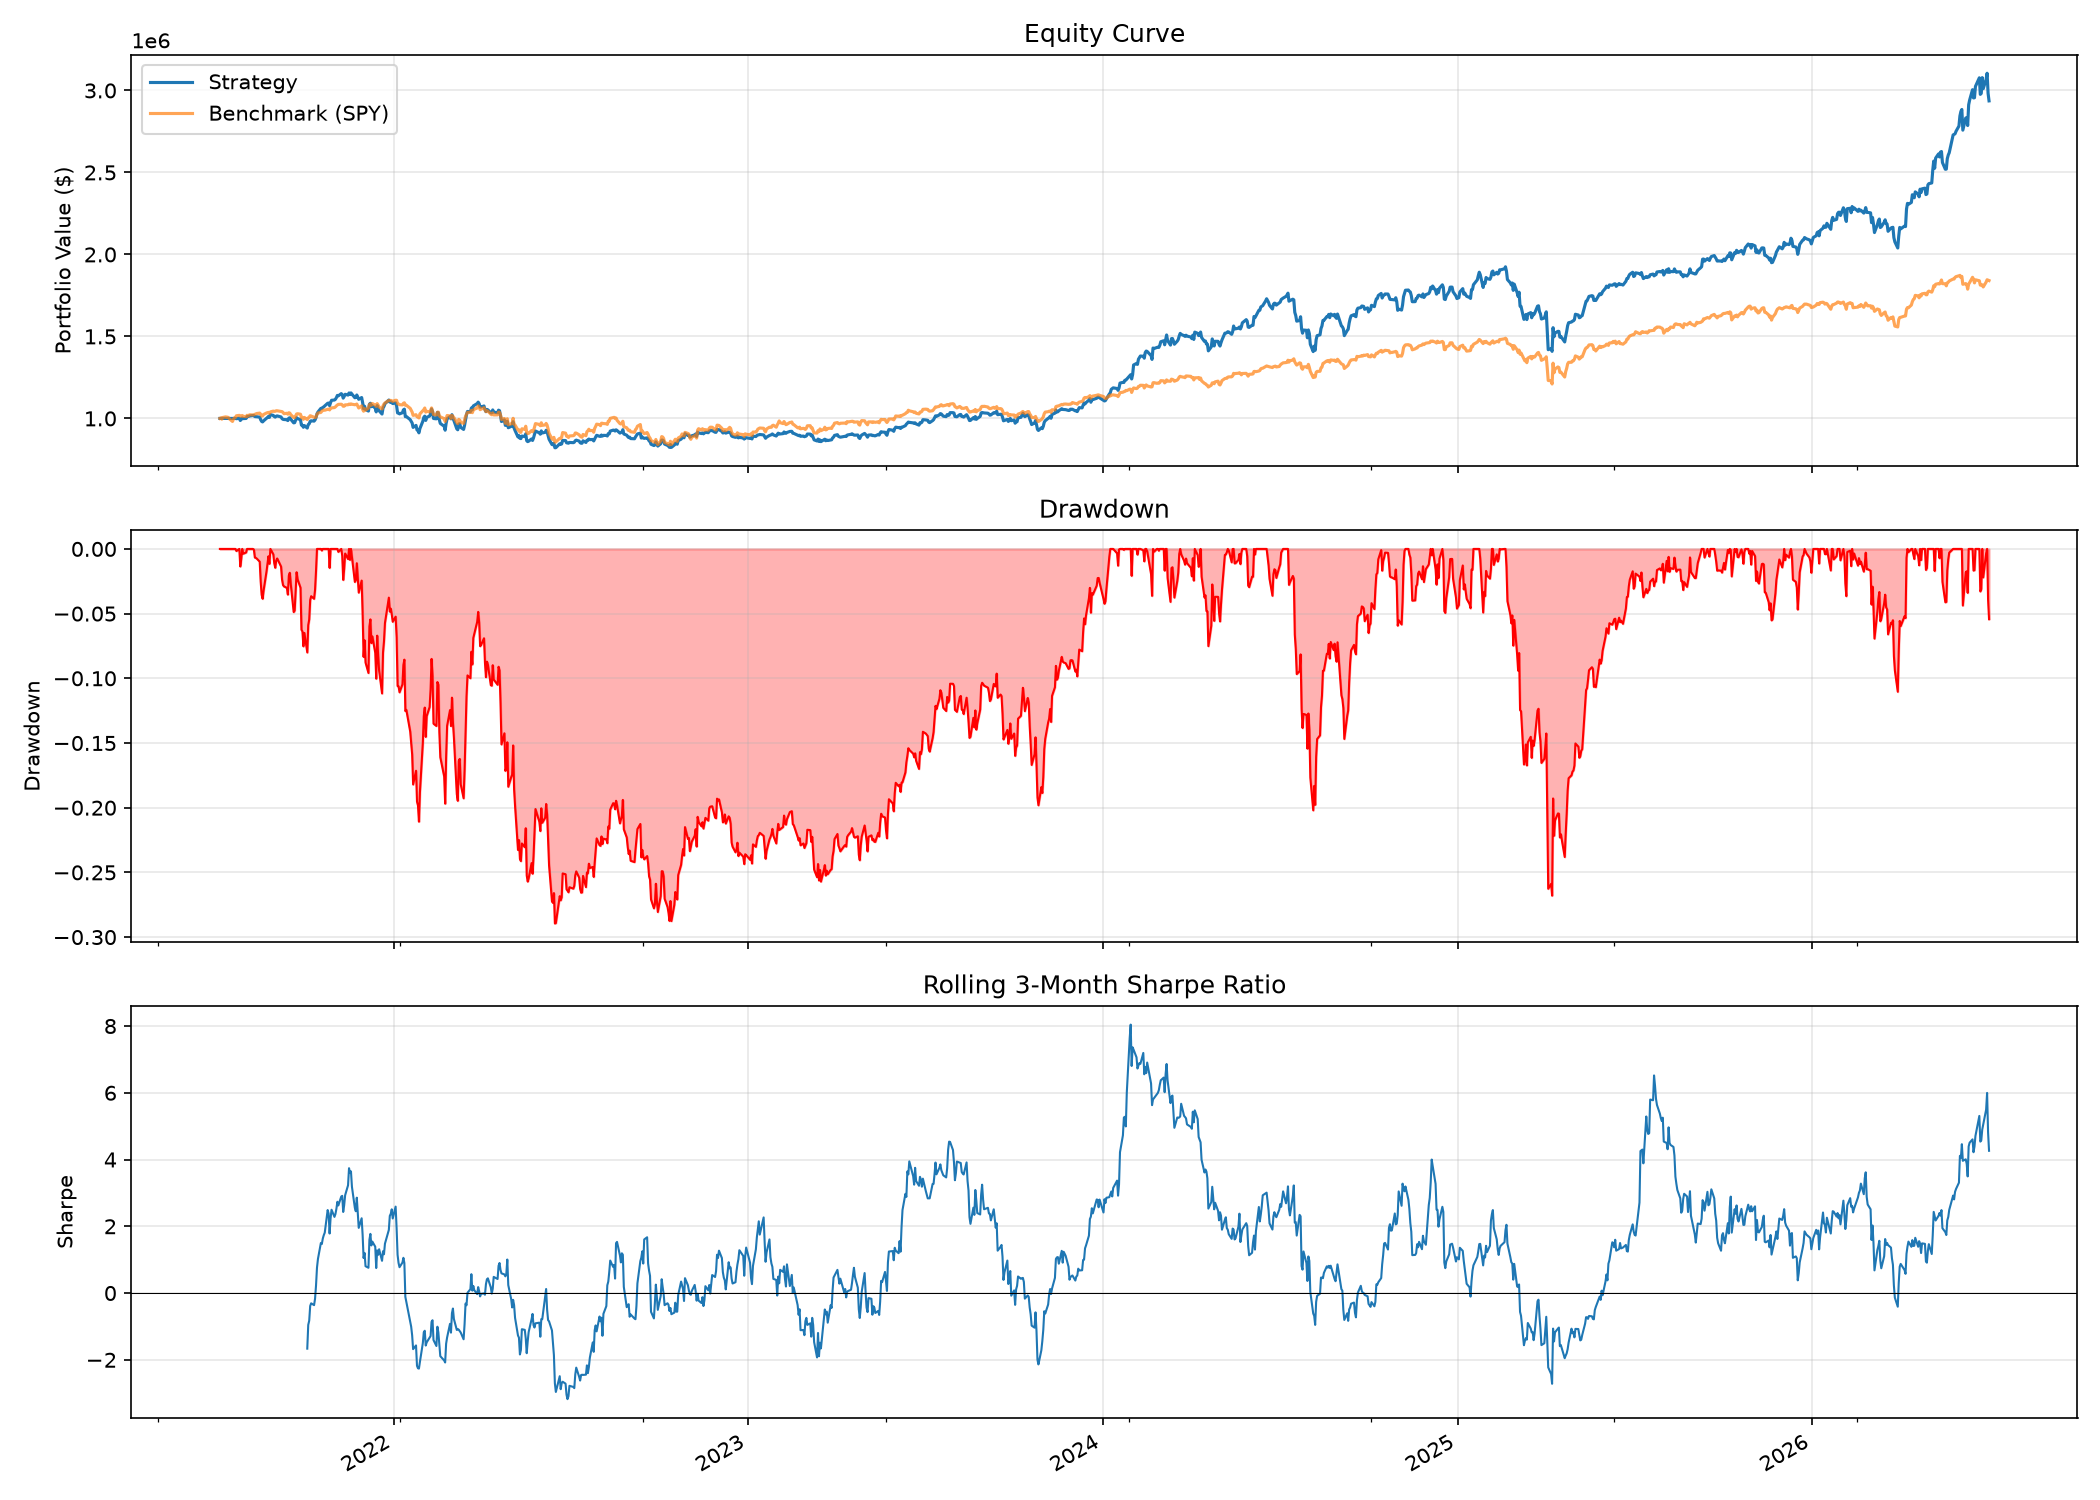
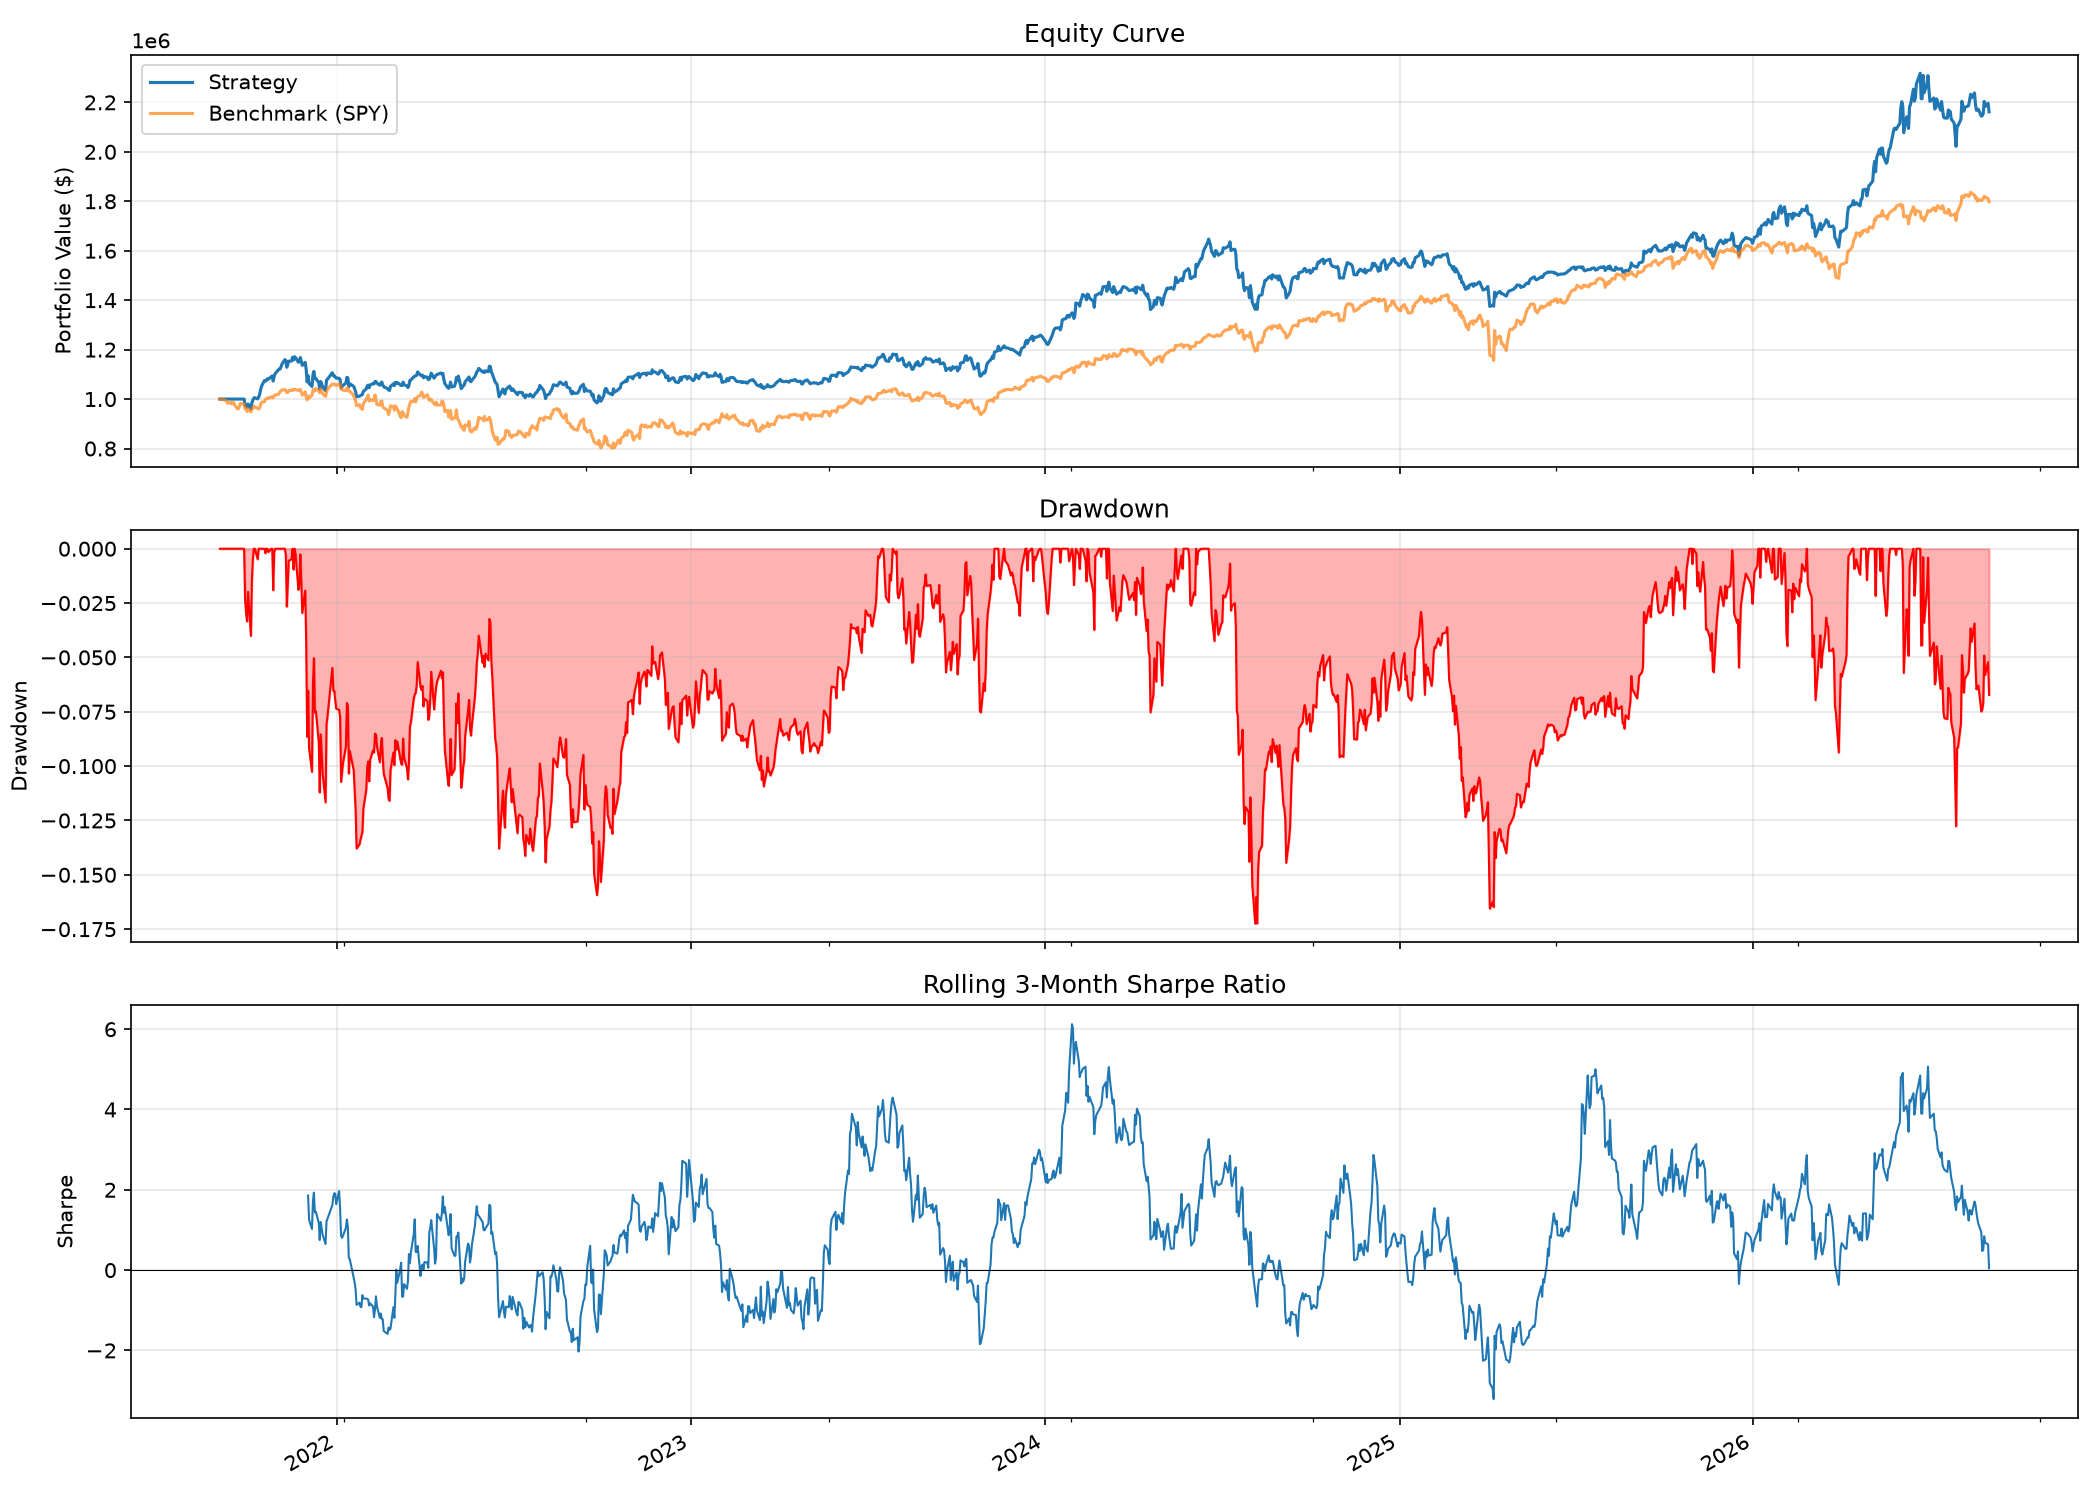
docs(readme): backtest tables and chart from the 2026-09-02 refresh run
Tables and the 5-year chart come from README Backtest Refresh run
33640431917 on commit 4274423, the first run with the sector table on the
backtest path, targets from the traded book and the volatility-scaled impact
model. The LightGBM tables are published alongside, with the plain reading:
it does not beat SPY in any window.

Claude-Session: https://claude.ai/code/session_01Q1RLruG5yjBkp6saSZZABh

diff --git a/README.md b/README.md
@@ -24,15 +24,64 @@ contributions add exactly to geometric active return.
 >
 > **配置**: 5个价格因子（动量50% + 52周新高20% + 短期反转10% + 波动率收缩10% + 趋势持续10%），12只集中持仓，22%目标波动率，3周再平衡+40%总换手上限（含退出腿与杠杆变化），快速regime检测动态杠杆，Almgren-Chriss市场冲击成本模型。Sharpe/Sortino 按 4% 无风险利率计算。基本面因子因yfinance前视偏差已禁用。
 
-### Results pending rerun / 结果待重跑
+### Multi-Factor Strategy / 多因子策略
 
-The previous tables and chart were generated before the next-session-open
-execution model, corrected Sortino definition, fixed rebalance calendar,
-continuous-window reporting, and final exposure limits were introduced. They
-have been removed rather than presented as current evidence. Run the manual
-`README Backtest Refresh` workflow to publish a new traceable set of results.
+Recomputed 2026-09-02 by the `README Backtest Refresh` workflow (Actions run [33640431917](https://github.com/yingwang/trade/actions/runs/33640431917)) on commit `4274423`: one continuous simulation sliced into windows, next-session-open execution, the anchored rebalance calendar, the static sector table on both paths, targets computed from the actual drifted book, the volatility-scaled impact model, and Sharpe/Sortino against a 4% risk-free rate.
 
-旧表格和净值图生成于本轮回测时序、Sortino、固定再平衡日历、连续窗口及最终风险上限修复之前，因此不再作为当前结果展示。请运行手动 `README Backtest Refresh` workflow 后再发布可追溯的新结果。
+由 `README Backtest Refresh` workflow 于 2026-09-02 重算（Actions run 33640431917，commit `4274423`）：一次连续模拟切成三个窗口，次日开盘成交，锚定的再平衡日历，回测与实盘共用的静态行业表，目标组合按真实漂移持仓计算，波动率尺度的冲击成本，Sharpe/Sortino 按 4% 无风险利率计算。
+
+#### 5-Year Backtest (2021-09-02 → 2026-09-02)
+
+| Metric / 指标 | Strategy / 策略 | SPY | Difference / 差异 |
+|---------------|:-----------:|:---:|:---------:|
+| **Total Return / 总收益** | **+110.5%** | +80.3% | **+30.1pp** |
+| **CAGR / 年化收益** | **+16.1%** | — | — |
+| **Sharpe Ratio** | **0.71** | — | — |
+| **Sortino Ratio** | **1.02** | — | — |
+| **Max Drawdown / 最大回撤** | -16.7% | — | — |
+| **Information Ratio** | **0.22** | — | — |
+
+#### 3-Year Backtest (2023-09-02 → 2026-09-02)
+
+| Metric / 指标 | Strategy / 策略 | SPY | Difference / 差异 |
+|---------------|:-----------:|:---:|:---------:|
+| **Total Return / 总收益** | **+84.7%** | +76.5% | **+8.3pp** |
+| **CAGR / 年化收益** | **+22.9%** | — | — |
+| **Sharpe Ratio** | **1.00** | — | — |
+| **Sortino Ratio** | **1.47** | — | — |
+| **Max Drawdown / 最大回撤** | -16.7% | — | — |
+| **Information Ratio** | **0.15** | — | — |
+
+#### 1-Year Backtest (2025-09-02 → 2026-09-02)
+
+| Metric / 指标 | Strategy / 策略 | SPY | Difference / 差异 |
+|---------------|:-----------:|:---:|:---------:|
+| **Total Return / 总收益** | **+39.5%** | +20.6% | **+18.9pp** |
+| **CAGR / 年化收益** | **+39.5%** | — | — |
+| **Sharpe Ratio** | **1.45** | — | — |
+| **Sortino Ratio** | **2.21** | — | — |
+| **Max Drawdown / 最大回撤** | -12.8% | — | — |
+| **Information Ratio** | **1.01** | — | — |
+
+#### Performance Chart / 净值曲线 (5-Year)
+
+![5-Year Backtest](backtest_5yr.png)
+
+The July 2026 tables (5-year +193.6%, Sharpe 0.87, max drawdown -28.9%) were produced before the sector table existed on the backtest path, with targets chained from the previous target rather than the traded book, and with an impact model that charged almost nothing; about half of that excess return does not survive those corrections. The drawdown falls because the 50% sector cap and industry neutralization now actually apply.
+
+2026 年 7 月的表格（五年 +193.6%，Sharpe 0.87，最大回撤 -28.9%）产生于回测路径尚无行业表、目标组合从上期目标而非实际持仓链式推导、冲击成本几乎为零的版本；上述修正之后，其中约一半的超额收益不复存在。最大回撤下降，是因为 50% 行业上限和行业中性化此时才真正起作用。
+
+### LightGBM Strategy / LightGBM 策略
+
+Same run, same windows. The ranking model does not beat the benchmark in any window of the honest backtest; the paper account's excess return since April 2026 is, by the dashboard's attribution, sector exposure rather than selection. Treat this strategy as research until that changes.
+
+同一次运行、同样的窗口。排序模型在诚实回测的任何窗口内都没有跑赢基准；模拟账户自 2026 年 4 月以来的超额收益，按看板归因，来自行业暴露而非选股。在这一点改变之前，这条策略应视为研究项目。
+
+| Window / 窗口 | Strategy / 策略 | SPY | Difference / 差异 | Sharpe | Max DD |
+|---|:---:|:---:|:---:|:---:|:---:|
+| 5-Year (2021-09-02 → 2026-09-02) | +53.6% | +80.3% | -26.7pp | 0.45 | -21.4% |
+| 3-Year (2023-09-02 → 2026-09-02) | +49.3% | +76.5% | -27.2pp | 1.00 | -8.5% |
+| 1-Year (2025-09-02 → 2026-09-02) | +12.0% | +20.6% | -8.6pp | 0.81 | -6.6% |
 
 Even after rerunning, the default static stock universe must be labelled as
 survivorship-biased. A bias-reduced run requires both the optional
